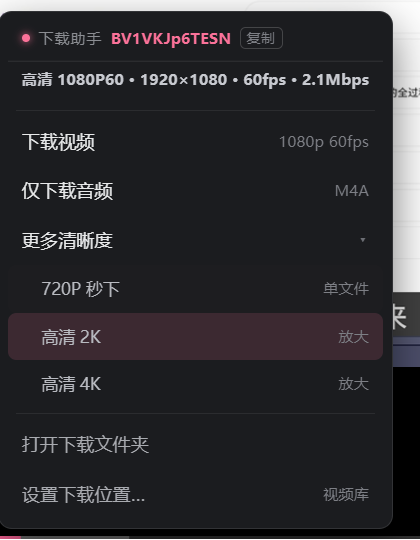
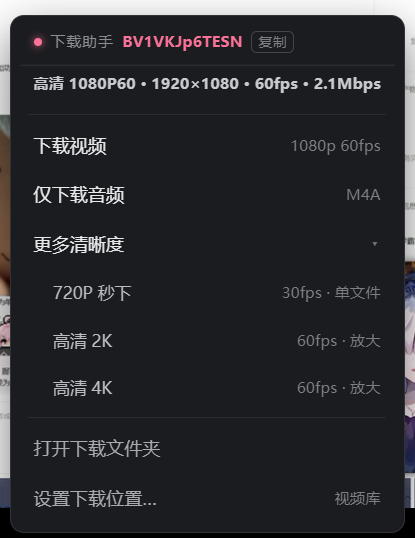
feat: 「更多清晰度」里标注各档帧率
- 720P 秒下：标出单文件通道的帧率（一般 30fps）
- 高清 2K / 4K：标成「60fps · 原生」或「30fps · 放大」，帧率取自实际选中的流
- 更新菜单截图与文档说明

diff --git a/lib/inject.js b/lib/inject.js
@@ -634,6 +634,11 @@
         var top = vs[0];
         if (!top) return null;
 
+        // 720P 那一档的帧率（"720P 秒下"走的是单文件通道，帧率跟 720P 流一致）
+        var near720 = vs.slice().sort(function (a, b) {
+          return Math.abs((a.height || 0) - 720) - Math.abs((b.height || 0) - 720);
+        })[0];
+
         var fpsList = vs.map(function (v) { return parseFloat(v.frameRate) || 0; });
         var spec = {
           qn: top.id,
@@ -643,6 +648,7 @@
           mbps: Math.round((top.bandwidth || 0) / 100000) / 10,
           maxHeight: Math.max.apply(null, vs.map(function (v) { return v.height || 0; })),
           maxFps: Math.max.apply(null, fpsList),
+          fps720: parseFloat((near720 || {}).frameRate) || 0,
           quality:
             (j.data.accept_description || [])[(j.data.accept_quality || []).indexOf(top.id)] || '',
         };
@@ -808,8 +814,12 @@
 
       var native2k = spec.maxHeight >= 1440 - 8;
       var native4k = spec.maxHeight >= 2160 - 8;
-      k2Row.querySelector('em').textContent = native2k ? '原生' : '放大';
-      k4Row.querySelector('em').textContent = native4k ? '原生' : '放大';
+      var fps = Math.round(spec.fps || 0);
+      var f720 = Math.round(spec.fps720 || 0);
+
+      fastRow.querySelector('em').textContent = (f720 ? f720 + 'fps · ' : '') + '单文件';
+      k2Row.querySelector('em').textContent = fps + 'fps · ' + (native2k ? '原生' : '放大');
+      k4Row.querySelector('em').textContent = fps + 'fps · ' + (native4k ? '原生' : '放大');
 
       placeMenu(m, x, y);
     });

diff --git a/使用说明.md b/使用说明.md
@@ -35,8 +35,8 @@
 | **下载视频**（右侧显示 `4K 125fps` 这类实际规格） | 默认走**最高画质**：画面流 + 声音流分别下载，再用客户端自带的 ffmpeg 合并。上限取决于你的账号权限 |
 | **仅下载音频**（M4A） | 只要声音，适合听歌、存播客 |
 | **更多清晰度 ▸** | 展开后才有下面三项，平时折叠，避免菜单太长 |
-| └ 720P 秒下 | 单文件 MP4、自带音轨、**不需要合并**，最快 |
-| └ 高清 2K / 高清 4K | 源片够高就直接下原生；不够高才用 ffmpeg 放大（右侧会标「原生」或「放大」） |
+| └ 720P 秒下 | 单文件 MP4、自带音轨、**不需要合并**，最快。右侧标帧率（单文件通道一般是 30fps） |
+| └ 高清 2K / 高清 4K | 右侧标成 `60fps · 原生` 或 `30fps · 放大`：帧率来自实际选中的流，后半个词告诉你会不会转码 |
 | **打开下载文件夹** | 打开当前保存位置 |
 | **设置下载位置…** | 换保存目录、改自动打开等（见下一节） |
 
